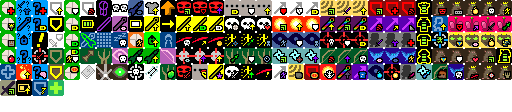
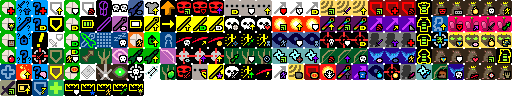
added 5 t4 talents

Changed region(s): [[0.125, 0.6964, 0.2812, 0.8571]]

diff --git a/core/src/main/java/com/zrp200/rkpd2/ui/changelist/RKPD2Changes.java b/core/src/main/java/com/zrp200/rkpd2/ui/changelist/RKPD2Changes.java
@@ -434,6 +434,7 @@ public class RKPD2Changes {
                         new ChangeButton(new Image(TALENT_ICONS, 16*3,0,16,16), "Warrior",
                                 "_-_ Changed One Man Army and Skill to have unique sprite.\n" +
                                         "_-_ Replaced _Restored Willpower_ with _Willpower of Injured_: makes seal's shielding regenerate faster on low HP.\n" +
+                                        "_-_ Added _Weapon Mastery_ talent as 5th T1: increases the minimum amount of weapons.\n"+
                                         "_-_ Added _Big Rush_ talent as 6th T2: causes warrior to ram enemies instead of going around them, with bonus damage from seal's shielding.\n" +
                                         "_-_ Changed _Hold Fast_: now gives minimal armor value.\n\n" +
                                         "_-_ Reworked _Endless Rage_: now gives ability to gain rage from DoT, magic spells and Viscosity.\n" +
@@ -446,6 +447,7 @@ public class RKPD2Changes {
                                         "_-_ Added _Demonshader_ to Endure: imbues endure-empowered attacks with fire damage and ability to generate rage and combo."),
                         new ChangeButton(new Image(TALENT_ICONS, 16*13,16*4,16,16), "Mage",
                                 "_-_ Changed Sorcery and Warlock's Touch to have unique sprite.\n" +
+                                        "_-_ Added _Arcane Boost_ talent as 5th T1: slightly increases recharge speed on wands.\n"+
                                         "_-_ Added _Pyromaniac_ talent as 6th T2: increases damage from all fire in the game.\n\n" +
                                         "_-_ Buffed _Elemental Blast_ to have its base damage based on staff's melee damage.\n" +
                                         "_-_ Added _Empowered Strike II_ to Elemental Blast: doubles the damage and effects of ability for 2x charge cost.\n" +
@@ -453,6 +455,7 @@ public class RKPD2Changes {
                                         "_-_ Added _Chrono Screw_ to Remote Beacon: gives time bubble after successful teleportation."),
                         new ChangeButton(new Image(TALENT_ICONS, 16*5,16*2,16,16), "Rogue",
                                 "_-_ Changed Lethal Momentum and Marathon Runner to have unique sprite.\n" +
+                                        "_-_ Added _Faraday Cage_ talent as 5th T1: protects hero from electricity.\n"+
                                         "_-_ Replaced _Rogue's Foresight_ with _Protein Infusion_: gives bonus speed and evasion depending on satiety.\n" +
                                         "_-_ Added _Efficient Shadows_ talent as 6th T2: removes cloak's charge speed boost for more invisibility time per charge.\n" +
                                         "_-_ Fixed _Dual Wielding_: no longer causes softlocks.\n\n" +
@@ -462,6 +465,7 @@ public class RKPD2Changes {
                                         "_-_ Added _Dar Magic_ to Shadow Clone: gives various ranged capabilities to shadow clone."),
                         new ChangeButton(new Image(TALENT_ICONS, 16*3,16*3,16,16), "Huntress",
                                 "_-_ Changed Nature's Better Aid to have unique sprite.\n" +
+                                        "_-_ Added _Greenfields_ talent as 5th T1: increases regeneration while in furrowed grass.\n"+
                                         "_-_ Replaced _Nature's Aid_ with _Scout's Barrier_: gives shielding for successful Super-Shots.\n" +
                                         "_-_ Added _Scout's Agility_ talent as 6th T2: makes heroine dodge ranged attacks better.\n\n" +
                                         "_-_ Armored Cloak is preserved when using DK's crown.\n" +

diff --git a/core/src/main/java/com/zrp200/rkpd2/ui/TalentButton.java b/core/src/main/java/com/zrp200/rkpd2/ui/TalentButton.java
@@ -21,23 +21,22 @@
 
 package com.zrp200.rkpd2.ui;
 
+import com.watabou.gltextures.SmartTexture;
+import com.watabou.gltextures.TextureCache;
+import com.watabou.noosa.*;
+import com.watabou.noosa.audio.Sample;
+import com.watabou.noosa.particles.Emitter;
+import com.watabou.noosa.ui.Button;
+import com.watabou.utils.Callback;
 import com.zrp200.rkpd2.Assets;
 import com.zrp200.rkpd2.Dungeon;
 import com.zrp200.rkpd2.ShatteredPixelDungeon;
 import com.zrp200.rkpd2.actors.hero.Talent;
 import com.zrp200.rkpd2.effects.Speck;
+import com.zrp200.rkpd2.scenes.GameScene;
 import com.zrp200.rkpd2.scenes.PixelScene;
+import com.zrp200.rkpd2.windows.WndHero;
 import com.zrp200.rkpd2.windows.WndInfoTalent;
-import com.watabou.gltextures.SmartTexture;
-import com.watabou.gltextures.TextureCache;
-import com.watabou.noosa.ColorBlock;
-import com.watabou.noosa.Image;
-import com.watabou.noosa.PointerArea;
-import com.watabou.noosa.TextureFilm;
-import com.watabou.noosa.audio.Sample;
-import com.watabou.noosa.particles.Emitter;
-import com.watabou.noosa.ui.Button;
-import com.watabou.utils.Callback;
 
 public class TalentButton extends Button {
 
@@ -156,6 +155,15 @@ public class TalentButton extends Button {
 			emitter.revive();
 			emitter.pos(fill.x + (fill.width() + oldWidth) / 2f, fill.y + fill.height() / 2f);
 			emitter.burst(Speck.factory(Speck.STAR), 12);
+			if (talent == Talent.HEROIC_RATINESS){
+				parent.destroy();
+				Game.runOnRenderThread(new Callback() {
+					@Override
+					public void call() {
+						GameScene.show( new WndHero() );
+					}
+				});
+			}
 		}
 	}
 }

diff --git a/core/src/main/java/com/zrp200/rkpd2/actors/hero/Talent.java b/core/src/main/java/com/zrp200/rkpd2/actors/hero/Talent.java
@@ -170,6 +170,7 @@ public enum Talent {
 			return super.title();
 		}
 	},
+	HEROIC_ENDURANCE(164, 4), HEROIC_WIZARDRY(165, 4), HEROIC_STAMINA(166, 4), HEROIC_ARCHERY(167, 4), HEROIC_RATINESS(168, 3),
 
 	//Ratmogrify T4
 	RATSISTANCE(124, 4), RATLOMACY(125, 4), RATFORCEMENTS(126, 4), DRRATEDON(123, 4),
@@ -264,6 +265,9 @@ public enum Talent {
 	public static int getMaxPoints(int tier) {
 		int max = tierLevelThresholds[tier+1] - tierLevelThresholds[tier];
 		if(tier == 3) max += 4;
+		if (Dungeon.hero != null){
+			if (Dungeon.hero.pointsInTalent(HEROIC_RATINESS) >= tier) max += 1;
+		}
 		return max;
 	}
 
@@ -525,6 +529,9 @@ public enum Talent {
 			float duration = 3f*hero.pointsInTalent(ENHANCED_RINGS,RK_ASSASSIN);
 			if(hero.hasTalent(ENHANCED_RINGS)) Buff.affect(hero, EnhancedRings.class, duration);
 			else Buff.prolong(hero, EnhancedRings.class, duration);
+		}
+		if (hero.hasTalent(HEROIC_STAMINA)){
+			Buff.prolong(hero, Stamina.class, 1.25f * hero.pointsInTalent(HEROIC_STAMINA));
 		}
 	}
 	public static void onItemEquipped( Hero hero, Item item ){
@@ -798,6 +805,7 @@ public enum Talent {
 		for (Talent t : abil.talents()){
 			talents.get(3).put(t, 0);
 		}
+
 	}
 
 	private static final String TALENT_TIER = "talents_tier_";

diff --git a/core/src/main/java/com/zrp200/rkpd2/actors/hero/abilities/Ratmogrify.java b/core/src/main/java/com/zrp200/rkpd2/actors/hero/abilities/Ratmogrify.java
@@ -6,6 +6,7 @@ import com.watabou.utils.PathFinder;
 import com.watabou.utils.Random;
 import com.zrp200.rkpd2.Assets;
 import com.zrp200.rkpd2.Dungeon;
+import com.zrp200.rkpd2.GamesInProgress;
 import com.zrp200.rkpd2.actors.Actor;
 import com.zrp200.rkpd2.actors.Char;
 import com.zrp200.rkpd2.actors.buffs.*;
@@ -26,6 +27,7 @@ import com.zrp200.rkpd2.ui.TargetHealthIndicator;
 import com.zrp200.rkpd2.utils.GLog;
 
 import java.util.ArrayList;
+import java.util.Arrays;
 
 public class Ratmogrify extends ArmorAbility {
 
@@ -137,7 +139,10 @@ public class Ratmogrify extends ArmorAbility {
 
 	@Override
 	public Talent[] talents() {
-		return new Talent[]{ Talent.RATSISTANCE, Talent.RATLOMACY, Talent.RATFORCEMENTS, Talent.DRRATEDON, Talent.HEROIC_ENERGY};
+		ArrayList<Talent> talents = new ArrayList<>(Arrays.asList(Talent.RATSISTANCE, Talent.RATLOMACY, Talent.RATFORCEMENTS, Talent.DRRATEDON, Talent.HEROIC_ENERGY));
+		if (GamesInProgress.selectedClass == HeroClass.RAT_KING || (Dungeon.hero != null && Dungeon.hero.heroClass == HeroClass.RAT_KING))
+			talents.add(Talent.HEROIC_RATINESS);
+		return talents.toArray(new Talent[0]);
 	}
 
 	public static class TransmogRat extends Mob {

diff --git a/core/src/main/java/com/zrp200/rkpd2/actors/hero/abilities/mage/WildMagic.java b/core/src/main/java/com/zrp200/rkpd2/actors/hero/abilities/mage/WildMagic.java
@@ -69,7 +69,7 @@ public class WildMagic extends ArmorAbility {
 		float chargeUsePerShot = (float)Math.pow(0.563f, hero.pointsInTalent(Talent.CONSERVED_MAGIC));
 
 		for (Wand w : wands.toArray(new Wand[0])){
-			if (w.curCharges < 1 && w.partialCharge < chargeUsePerShot){
+			if (w.curCharges < 1 - hero.pointsInTalent(Talent.HEROIC_WIZARDRY) && w.partialCharge < chargeUsePerShot){
 				wands.remove(w);
 			}
 		}
@@ -82,7 +82,7 @@ public class WildMagic extends ArmorAbility {
 
 			for (Wand w : dupes.toArray(new Wand[0])){
 				float totalCharge = w.curCharges + w.partialCharge;
-				if (totalCharge < 2*chargeUsePerShot){
+				if (totalCharge < 2*chargeUsePerShot - 2*hero.pointsInTalent(Talent.HEROIC_WIZARDRY)){
 					dupes.remove(w);
 				}
 			}
@@ -150,6 +150,6 @@ public class WildMagic extends ArmorAbility {
 
 	@Override
 	public Talent[] talents() {
-		return new Talent[]{Talent.WILD_POWER, Talent.FIRE_EVERYTHING, Talent.CONSERVED_MAGIC, Talent.ELDRITCH_BLESSING, Talent.HEROIC_ENERGY};
+		return new Talent[]{Talent.WILD_POWER, Talent.FIRE_EVERYTHING, Talent.CONSERVED_MAGIC, Talent.ELDRITCH_BLESSING, Talent.HEROIC_ENERGY, Talent.HEROIC_WIZARDRY};
 	}
 }

diff --git a/core/src/main/java/com/zrp200/rkpd2/actors/mobs/Bestiary.java b/core/src/main/java/com/zrp200/rkpd2/actors/mobs/Bestiary.java
@@ -23,6 +23,7 @@ package com.zrp200.rkpd2.actors.mobs;
 
 import com.watabou.utils.Random;
 import com.zrp200.rkpd2.Dungeon;
+import com.zrp200.rkpd2.actors.mobs.npcs.RatKing;
 
 import java.util.ArrayList;
 import java.util.Arrays;
@@ -45,7 +46,7 @@ public class Bestiary {
 			case 1:
 				//3x rat, 1x snake
 				return new ArrayList<>(Arrays.asList(
-						Rat.class, Rat.class, Rat.class,
+						Rat.class, RatKing.class, RatKing.class,
 						Snake.class));
 			case 2:
 				//2x rat, 1x snake, 2x gnoll

diff --git a/core/src/main/java/com/zrp200/rkpd2/actors/hero/abilities/rogue/DeathMark.java b/core/src/main/java/com/zrp200/rkpd2/actors/hero/abilities/rogue/DeathMark.java
@@ -143,7 +143,7 @@ public class DeathMark extends ArmorAbility {
 
 	@Override
 	public Talent[] talents() {
-		return new Talent[]{Talent.FEAR_THE_REAPER, Talent.DEATHLY_DURABILITY, Talent.DOUBLE_MARK, Talent.CATACLYSMIC_ENERGY, Talent.HEROIC_ENERGY};
+		return new Talent[]{Talent.FEAR_THE_REAPER, Talent.DEATHLY_DURABILITY, Talent.DOUBLE_MARK, Talent.CATACLYSMIC_ENERGY, Talent.HEROIC_ENERGY, Talent.HEROIC_STAMINA};
 	}
 
 	public static class DeathMarkTracker extends FlavourBuff {

diff --git a/core/src/main/java/com/zrp200/rkpd2/actors/hero/abilities/huntress/NaturesPower.java b/core/src/main/java/com/zrp200/rkpd2/actors/hero/abilities/huntress/NaturesPower.java
@@ -59,7 +59,7 @@ public class NaturesPower extends ArmorAbility {
 
 	@Override
 	public Talent[] talents() {
-		return new Talent[]{Talent.GROWING_POWER, Talent.NATURES_WRATH, Talent.WILD_MOMENTUM, Talent.PRIMAL_AWAKENING, Talent.HEROIC_ENERGY};
+		return new Talent[]{Talent.GROWING_POWER, Talent.NATURES_WRATH, Talent.WILD_MOMENTUM, Talent.PRIMAL_AWAKENING, Talent.HEROIC_ENERGY, Talent.HEROIC_ARCHERY};
 	}
 
 	public static class naturesPowerTracker extends FlavourBuff{

diff --git a/core/src/main/java/com/zrp200/rkpd2/actors/hero/abilities/rat_king/Wrath.java b/core/src/main/java/com/zrp200/rkpd2/actors/hero/abilities/rat_king/Wrath.java
@@ -51,7 +51,7 @@ public class Wrath extends ArmorAbility {
 
     @Override
     public Talent[] talents() { return new Talent[]{
-            Talent.AURIC_TESLA, Talent.QUANTUM_POSITION, Talent.RAT_AGE, Talent.AVALON_POWER_UP, Talent.HEROIC_ENERGY}; }
+            Talent.AURIC_TESLA, Talent.QUANTUM_POSITION, Talent.RAT_AGE, Talent.AVALON_POWER_UP, Talent.HEROIC_ENERGY, Talent.HEROIC_RATINESS}; }
 
     private static final float JUMP_DELAY=2f;
 

diff --git a/core/src/main/java/com/zrp200/rkpd2/actors/hero/abilities/rogue/SmokeBomb.java b/core/src/main/java/com/zrp200/rkpd2/actors/hero/abilities/rogue/SmokeBomb.java
@@ -162,7 +162,7 @@ public class SmokeBomb extends ArmorAbility {
 
 	@Override
 	public Talent[] talents() {
-		return new Talent[]{Talent.HASTY_RETREAT, Talent.BODY_REPLACEMENT, Talent.SHADOW_STEP, Talent.FRIGID_TOUCH, Talent.HEROIC_ENERGY};
+		return new Talent[]{Talent.HASTY_RETREAT, Talent.BODY_REPLACEMENT, Talent.SHADOW_STEP, Talent.FRIGID_TOUCH, Talent.HEROIC_ENERGY, Talent.HEROIC_STAMINA};
 	}
 
 	public static class NinjaLog extends NPC {

diff --git a/core/src/main/java/com/zrp200/rkpd2/actors/hero/abilities/rogue/ShadowClone.java b/core/src/main/java/com/zrp200/rkpd2/actors/hero/abilities/rogue/ShadowClone.java
@@ -127,7 +127,7 @@ public class ShadowClone extends ArmorAbility {
 
 	@Override
 	public Talent[] talents() {
-		return new Talent[]{Talent.SHADOW_BLADE, Talent.CLONED_ARMOR, Talent.PERFECT_COPY, Talent.DAR_MAGIC, Talent.HEROIC_ENERGY};
+		return new Talent[]{Talent.SHADOW_BLADE, Talent.CLONED_ARMOR, Talent.PERFECT_COPY, Talent.DAR_MAGIC, Talent.HEROIC_ENERGY, Talent.HEROIC_STAMINA};
 	}
 
 	public static ShadowAlly getShadowAlly(){

diff --git a/core/src/main/java/com/zrp200/rkpd2/actors/hero/abilities/huntress/SpiritHawk.java b/core/src/main/java/com/zrp200/rkpd2/actors/hero/abilities/huntress/SpiritHawk.java
@@ -122,7 +122,7 @@ public class SpiritHawk extends ArmorAbility {
 
 	@Override
 	public Talent[] talents() {
-		return new Talent[]{Talent.EAGLE_EYE, Talent.GO_FOR_THE_EYES, Talent.SWIFT_SPIRIT, Talent.BEAK_OF_POWER, Talent.HEROIC_ENERGY};
+		return new Talent[]{Talent.EAGLE_EYE, Talent.GO_FOR_THE_EYES, Talent.SWIFT_SPIRIT, Talent.BEAK_OF_POWER, Talent.HEROIC_ENERGY, Talent.HEROIC_ARCHERY};
 	}
 
 	public static HawkAlly getHawk(){
